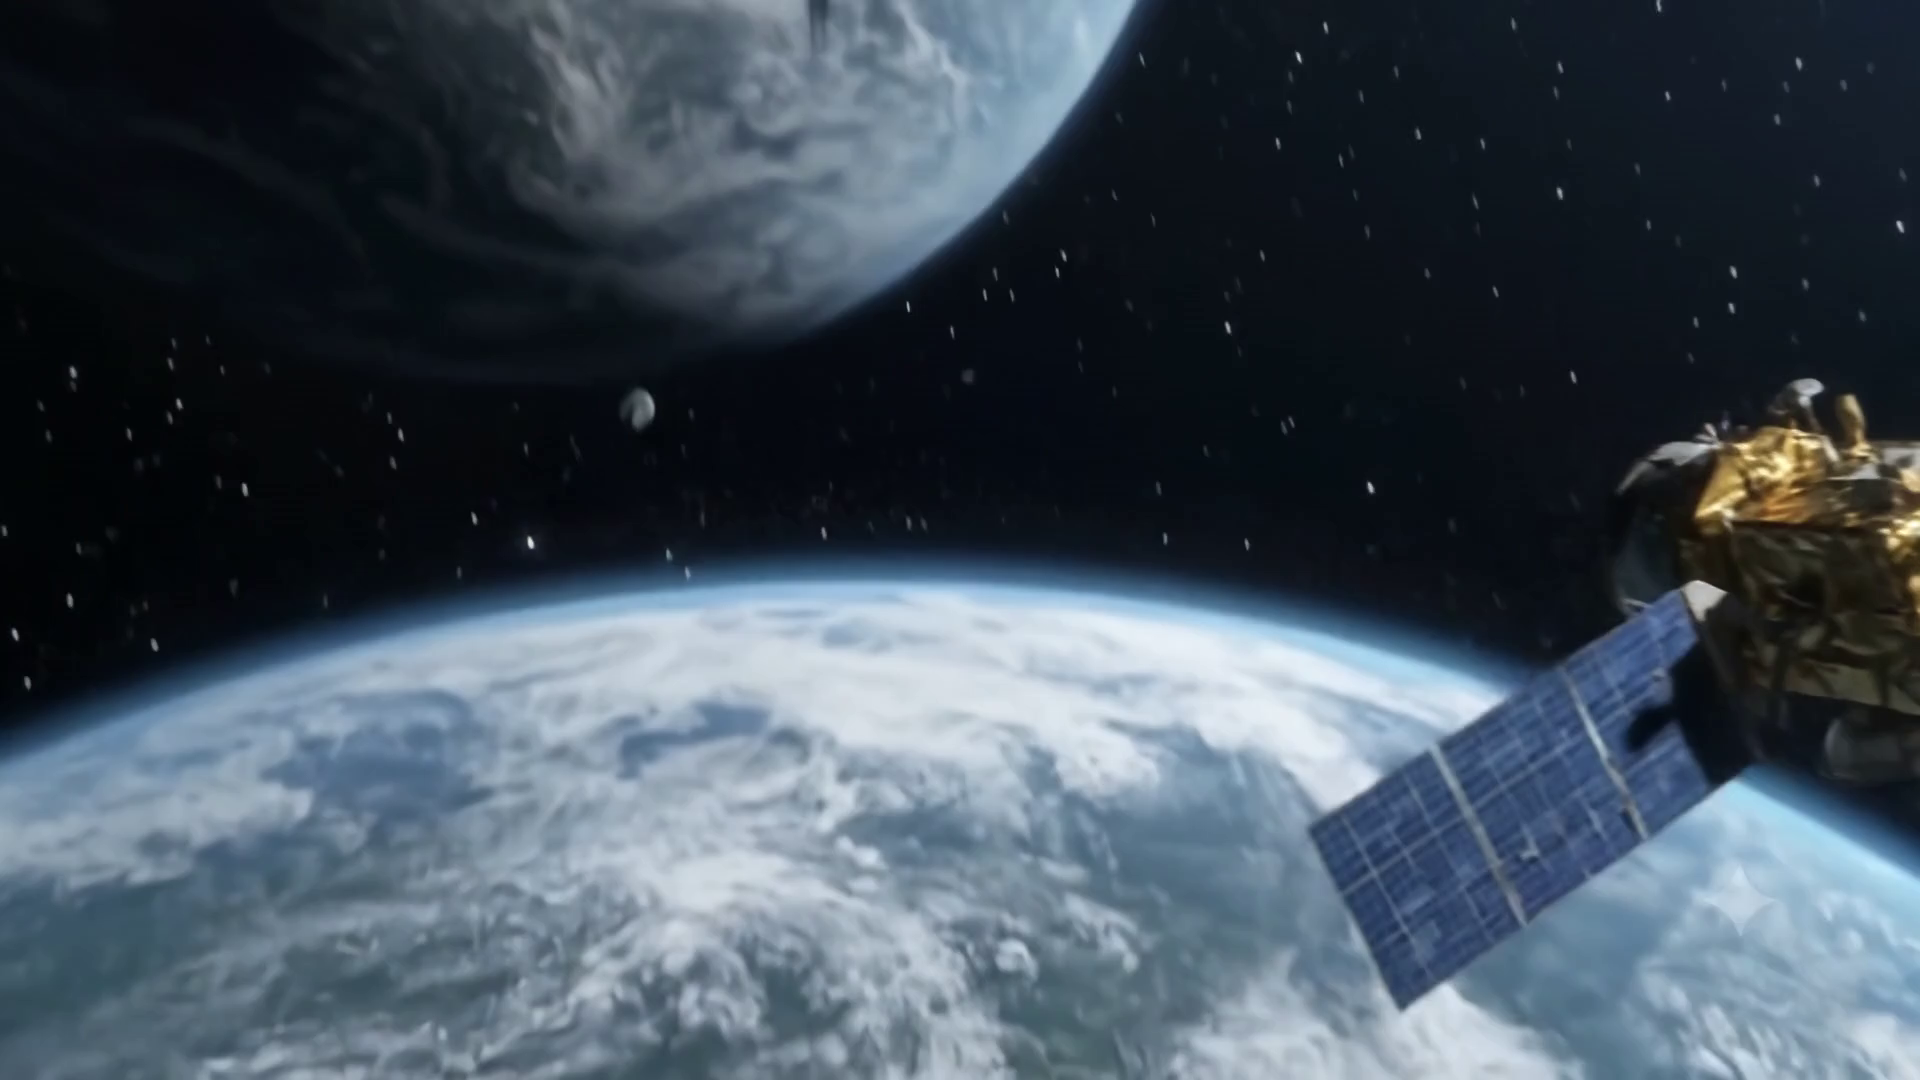
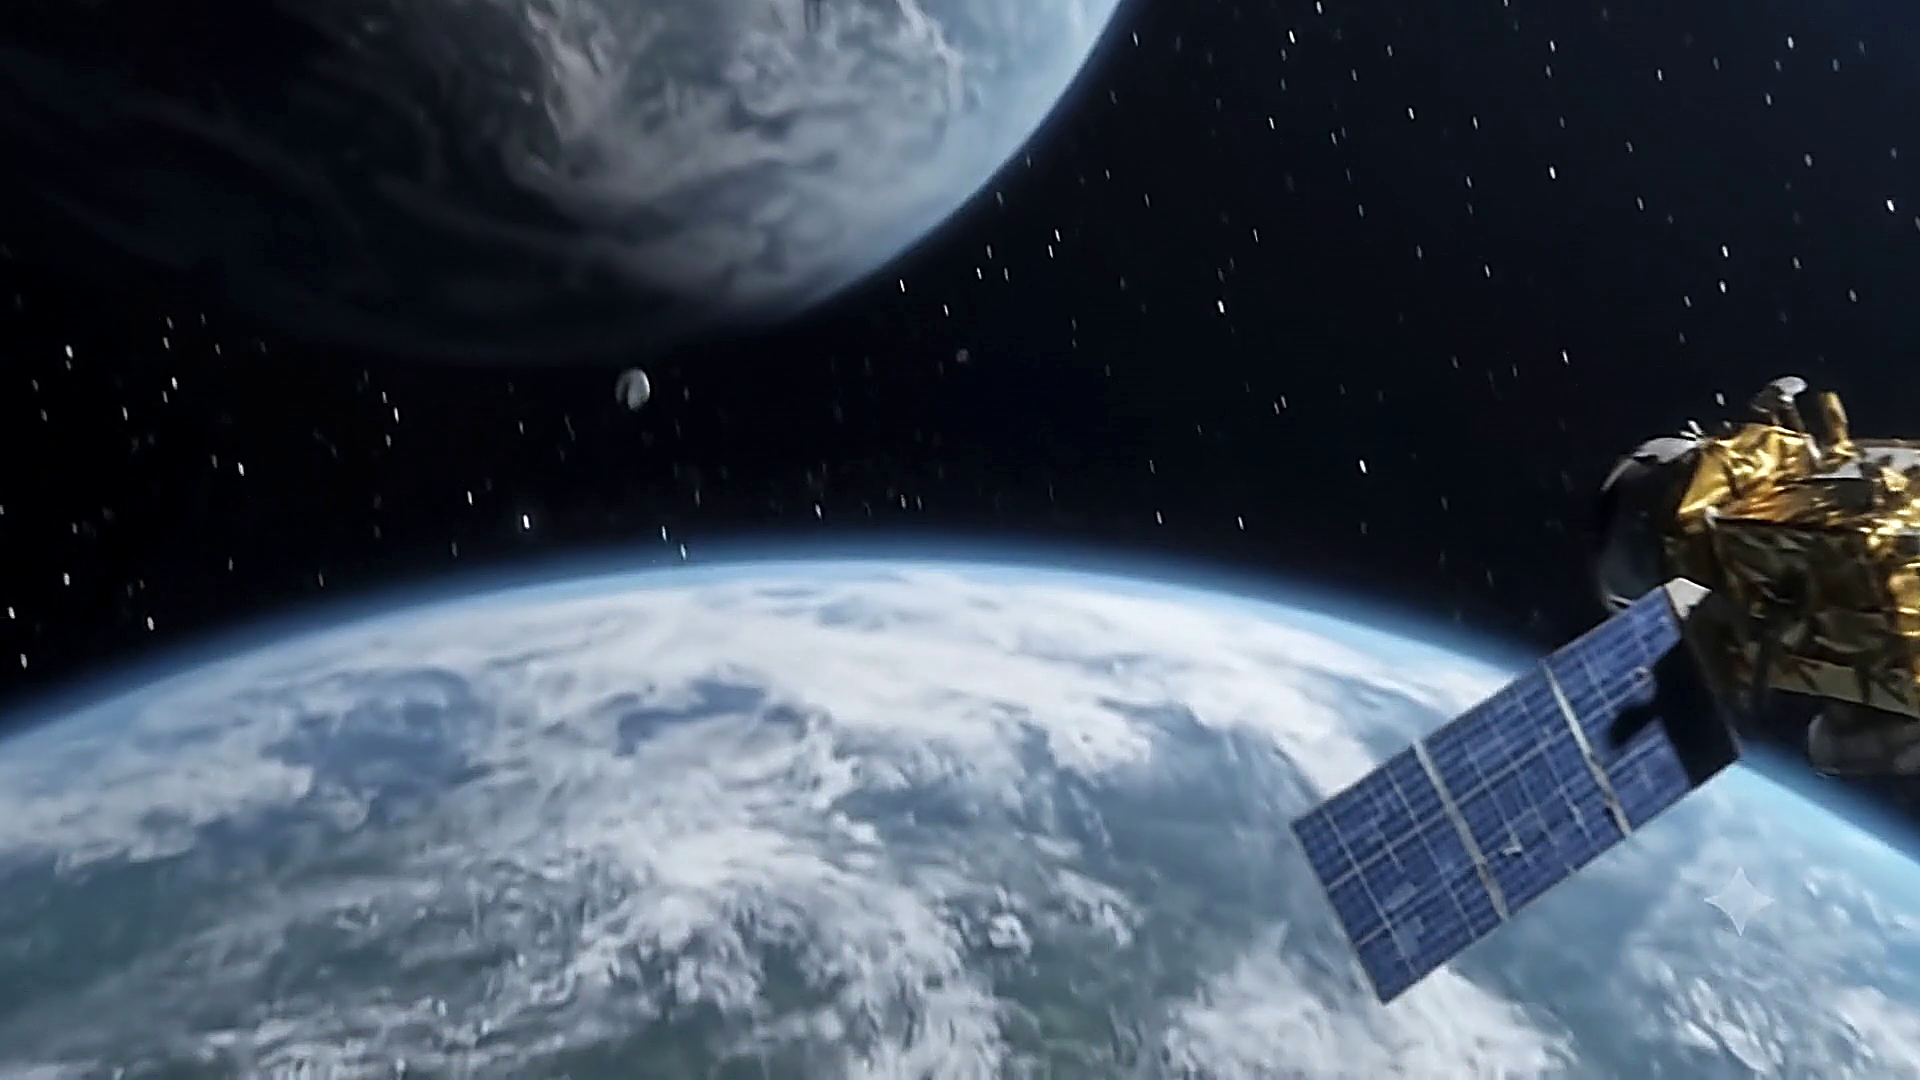
fix(about): sharpen initial 0th frame clarity and eliminate desktop 720p preview lag

diff --git a/frontend/src/components/AboutPage.tsx b/frontend/src/components/AboutPage.tsx
@@ -40,6 +40,7 @@ export const AboutPage: React.FC<AboutPageProps> = ({ onNavigate }) => {
   const containerRef = useRef<HTMLDivElement>(null);
   const previewVideoRef = useRef<HTMLVideoElement>(null);
   const hdVideoRef = useRef<HTMLVideoElement>(null);
+  const heroPosterRef = useRef<HTMLImageElement>(null);
   const canvasRef = useRef<HTMLCanvasElement>(null);
   const lenisRef = useRef<Lenis | null>(null);
 
@@ -64,14 +65,6 @@ export const AboutPage: React.FC<AboutPageProps> = ({ onNavigate }) => {
   const framesCacheRef = useRef<Map<number, HTMLImageElement>>(new Map());
   const lastDrawnFrameRef = useRef<number>(-1);
 
-  const [previewReady, setPreviewReady] = useState(false);
-  const [hdReady, setHdReady] = useState(false);
-  const isHdActiveRef = useRef(false);
-  const [isHdActive, setIsHdActive] = useState(false);
-  const [isMobile, setIsMobile] = useState(false);
-  const [reducedMotion, setReducedMotion] = useState(false);
-  const [logoError, setLogoError] = useState(false);
-
   // Progressive quality: Serve 1080p HD to all desktops and tablets.
   // Serve 1280 preview/mobile ONLY when screen < 768px, saveData is on, or connection is 2G
   const [shouldLoadHd, setShouldLoadHd] = useState(() => {
@@ -81,6 +74,14 @@ export const AboutPage: React.FC<AboutPageProps> = ({ onNavigate }) => {
     const isSlowConnection = ['2g', 'slow-2g'].includes((navigator as any)?.connection?.effectiveType);
     return !isMobileViewport && !isSaveData && !isSlowConnection;
   });
+
+  const [previewReady, setPreviewReady] = useState(false);
+  const [hdReady, setHdReady] = useState(false);
+  const isHdActiveRef = useRef(true);
+  const [isHdActive, setIsHdActive] = useState(true);
+  const [isMobile, setIsMobile] = useState(false);
+  const [reducedMotion, setReducedMotion] = useState(false);
+  const [logoError, setLogoError] = useState(false);
 
   // Check URL query param ?debug=1
   const [showDebug] = useState(() => {
@@ -171,11 +172,12 @@ export const AboutPage: React.FC<AboutPageProps> = ({ onNavigate }) => {
     let rafId: number;
 
     const performSeek = (targetSec: number) => {
-      const activeVideo = (isHdActiveRef.current && hdVideoRef.current && hdVideoRef.current.readyState >= 2)
+      const activeVideo = (shouldLoadHd && hdVideoRef.current && hdVideoRef.current.readyState >= 1)
         ? hdVideoRef.current
-        : previewVideoRef.current;
+        : (previewVideoRef.current || hdVideoRef.current);
 
-      if (!activeVideo || !isFinite(activeVideo.duration) || activeVideo.duration <= 0 || activeVideo.readyState < 2) {
+      if (!activeVideo || !isFinite(activeVideo.duration) || activeVideo.duration <= 0 || activeVideo.readyState < 1) {
+        pendingSeekTime = targetSec;
         return;
       }
       const clamped = Math.max(0, Math.min(activeVideo.duration, targetSec));
@@ -195,13 +197,6 @@ export const AboutPage: React.FC<AboutPageProps> = ({ onNavigate }) => {
         lastSeekTime = now;
         activeVideo.currentTime = clamped;
       }
-
-      // If HD video is buffering in background, keep its playhead synced
-      if (!isHdActiveRef.current && hdVideoRef.current && hdVideoRef.current.readyState >= 3 && !hdVideoRef.current.seeking) {
-        if (Math.abs(hdVideoRef.current.currentTime - clamped) >= (0.5 / SCRUB.FPS)) {
-          hdVideoRef.current.currentTime = clamped;
-        }
-      }
     };
 
     const handleSeeked = () => {
@@ -215,14 +210,27 @@ export const AboutPage: React.FC<AboutPageProps> = ({ onNavigate }) => {
 
     const handlePreviewLoaded = () => {
       setPreviewReady(true);
-      if (previewVideoRef.current) previewVideoRef.current.pause();
+      if (previewVideoRef.current) {
+        previewVideoRef.current.pause();
+        if (pendingSeekTime !== null) {
+          const next = pendingSeekTime;
+          pendingSeekTime = null;
+          performSeek(next);
+        }
+      }
     };
 
     const handleHdLoaded = () => {
       setHdReady(true);
       if (hdVideoRef.current) {
         hdVideoRef.current.pause();
-        hdVideoRef.current.currentTime = currentVideoTime;
+        if (pendingSeekTime !== null) {
+          const next = pendingSeekTime;
+          pendingSeekTime = null;
+          performSeek(next);
+        } else {
+          hdVideoRef.current.currentTime = currentVideoTime;
+        }
       }
     };
 
@@ -399,9 +407,9 @@ export const AboutPage: React.FC<AboutPageProps> = ({ onNavigate }) => {
       // 2. Video mode scrubbing (Seek-queueing with 0ms All-Intra seek response)
       let targetTime = 0;
       if (SCRUB.MODE === 'video') {
-        const activeVid = (isHdActiveRef.current && hdVideoRef.current && hdVideoRef.current.readyState >= 2)
+        const activeVid = (shouldLoadHd && hdVideoRef.current)
           ? hdVideoRef.current
-          : previewVideoRef.current;
+          : (previewVideoRef.current || hdVideoRef.current);
 
         if (activeVid && isFinite(activeVid.duration) && activeVid.duration > 0) {
           targetTime = progress * activeVid.duration;
@@ -416,12 +424,11 @@ export const AboutPage: React.FC<AboutPageProps> = ({ onNavigate }) => {
           // NOTE: NO transform: scale on video element (preserves 1:1 pixel sharpness)!
         }
 
-        // Progressive HD swap: when HD is loaded in background (readyState >= 3) and times align, activate HD seamlessly
-        if (shouldLoadHd && !isHdActiveRef.current && hdVideoRef.current && hdVideoRef.current.readyState >= 3) {
-          if (Math.abs(hdVideoRef.current.currentTime - currentVideoTime) < 0.05) {
-            isHdActiveRef.current = true;
-            setIsHdActive(true);
-          }
+        // Frame 0 Hero Sharpness: keep 100% sharp at progress 0, smoothly crossfade into scrub video
+        if (heroPosterRef.current) {
+          const posterOpacity = Math.max(0, 1 - progress * 25);
+          heroPosterRef.current.style.opacity = posterOpacity.toFixed(3);
+          heroPosterRef.current.style.visibility = posterOpacity > 0.005 ? 'visible' : 'hidden';
         }
       } else if (SCRUB.MODE === 'frames') {
         // Step 4: Canvas Image Sequence
@@ -437,7 +444,7 @@ export const AboutPage: React.FC<AboutPageProps> = ({ onNavigate }) => {
 
       // 4. Update Step 0 Debug Overlay (zero React re-renders)
       if (showDebug) {
-        const activeVid = (isHdActiveRef.current && hdVideoRef.current) ? hdVideoRef.current : previewVideoRef.current;
+        const activeVid = (shouldLoadHd && hdVideoRef.current) ? hdVideoRef.current : (previewVideoRef.current || hdVideoRef.current);
         if (debugProgressRef.current) {
           debugProgressRef.current.textContent = (progress * 100).toFixed(1) + '%';
         }
@@ -466,13 +473,11 @@ export const AboutPage: React.FC<AboutPageProps> = ({ onNavigate }) => {
           debugMsBetweenSeeksRef.current.textContent = lastSeekInterval > 0 ? `${lastSeekInterval.toFixed(0)}ms` : 'idle';
         }
         if (debugVariantRef.current) {
-          const name = isHdActiveRef.current
-            ? '1080p HD (Active)'
-            : shouldLoadHd
-            ? '1280p Preview (HD buffering...)'
+          const name = shouldLoadHd
+            ? '1080p HD (Direct)'
             : '1280p Mobile / Data Saver (Active)';
           debugVariantRef.current.textContent = name;
-          debugVariantRef.current.className = isHdActiveRef.current ? 'font-bold text-emerald-400' : 'font-bold text-cyan-300';
+          debugVariantRef.current.className = 'font-bold text-emerald-400';
         }
       }
 
@@ -530,32 +535,31 @@ export const AboutPage: React.FC<AboutPageProps> = ({ onNavigate }) => {
           />
         ) : (
           <div className="relative w-full h-full">
-            {/* Layer 1: Preview / Mobile Video (1280x720 All-Intra 24fps, instantaneous start) */}
-            <video
-              ref={previewVideoRef}
-              src="/earth-scrub-preview.mp4"
-              poster="/assets/earth-horizon.png"
-              muted
-              playsInline
-              preload="auto"
-              disablePictureInPicture
-              onError={() => {
-                if (previewVideoRef.current && previewVideoRef.current.src !== '/assets/back.mp4') {
-                  previewVideoRef.current.src = '/assets/back.mp4';
-                }
-              }}
-              className="absolute inset-0 w-full h-full object-cover object-center"
-              style={{
-                opacity: previewReady ? 1 : 0,
-                transition: 'opacity 300ms ease',
-              }}
-            />
+            {/* Layer 1: Mobile / Data-Saver Stream (1280x720 All-Intra 24fps) */}
+            {!shouldLoadHd && (
+              <video
+                ref={previewVideoRef}
+                src="/earth-scrub-preview.mp4"
+                poster="/assets/earth-horizon.png"
+                muted
+                playsInline
+                preload="auto"
+                disablePictureInPicture
+                className="absolute inset-0 w-full h-full object-cover object-center"
+                style={{
+                  opacity: previewReady ? 1 : 0,
+                  transition: 'opacity 300ms ease',
+                  imageRendering: '-webkit-optimize-contrast',
+                }}
+              />
+            )}
 
-            {/* Layer 2: Full 1080p HD Video (1920x1080 All-Intra 24fps CRF 15, background loaded) */}
+            {/* Layer 2: Full 1080p HD Video (1920x1080 All-Intra 24fps CRF 15, desktop & tablet) */}
             {shouldLoadHd && (
               <video
                 ref={hdVideoRef}
                 src="/earth-scrub-1080.mp4"
+                poster="/assets/earth-horizon.png"
                 muted
                 playsInline
                 preload="auto"
@@ -566,11 +570,24 @@ export const AboutPage: React.FC<AboutPageProps> = ({ onNavigate }) => {
                 }}
                 className="absolute inset-0 w-full h-full object-cover object-center"
                 style={{
-                  opacity: isHdActive ? 1 : 0,
-                  transition: 'opacity 400ms ease',
+                  opacity: hdReady ? 1 : 0,
+                  transition: 'opacity 300ms ease',
+                  imageRendering: '-webkit-optimize-contrast',
                 }}
               />
             )}
+
+            {/* Layer 3: Razor-sharp 1080p Frame 0 Poster Image - guarantees instant pin-sharp clarity from 0th millisecond */}
+            <img
+              ref={heroPosterRef}
+              src="/assets/earth-horizon.png"
+              alt="Earth orbital horizon"
+              className="absolute inset-0 w-full h-full object-cover object-center pointer-events-none will-change-[opacity]"
+              style={{
+                opacity: 1,
+                imageRendering: '-webkit-optimize-contrast',
+              }}
+            />
           </div>
         )}
       </div>

diff --git a/frontend/src/index.css b/frontend/src/index.css
@@ -23,6 +23,11 @@ html.lenis, html.lenis body {
   pointer-events: none;
 }
 
+/* High-clarity hardware-accelerated video & canvas rasterization */
+video, canvas {
+  image-rendering: -webkit-optimize-contrast;
+}
+
 :root, [data-theme="orbit"] {
   --bg: #05070F;
   --surface: #0A0F1D;
